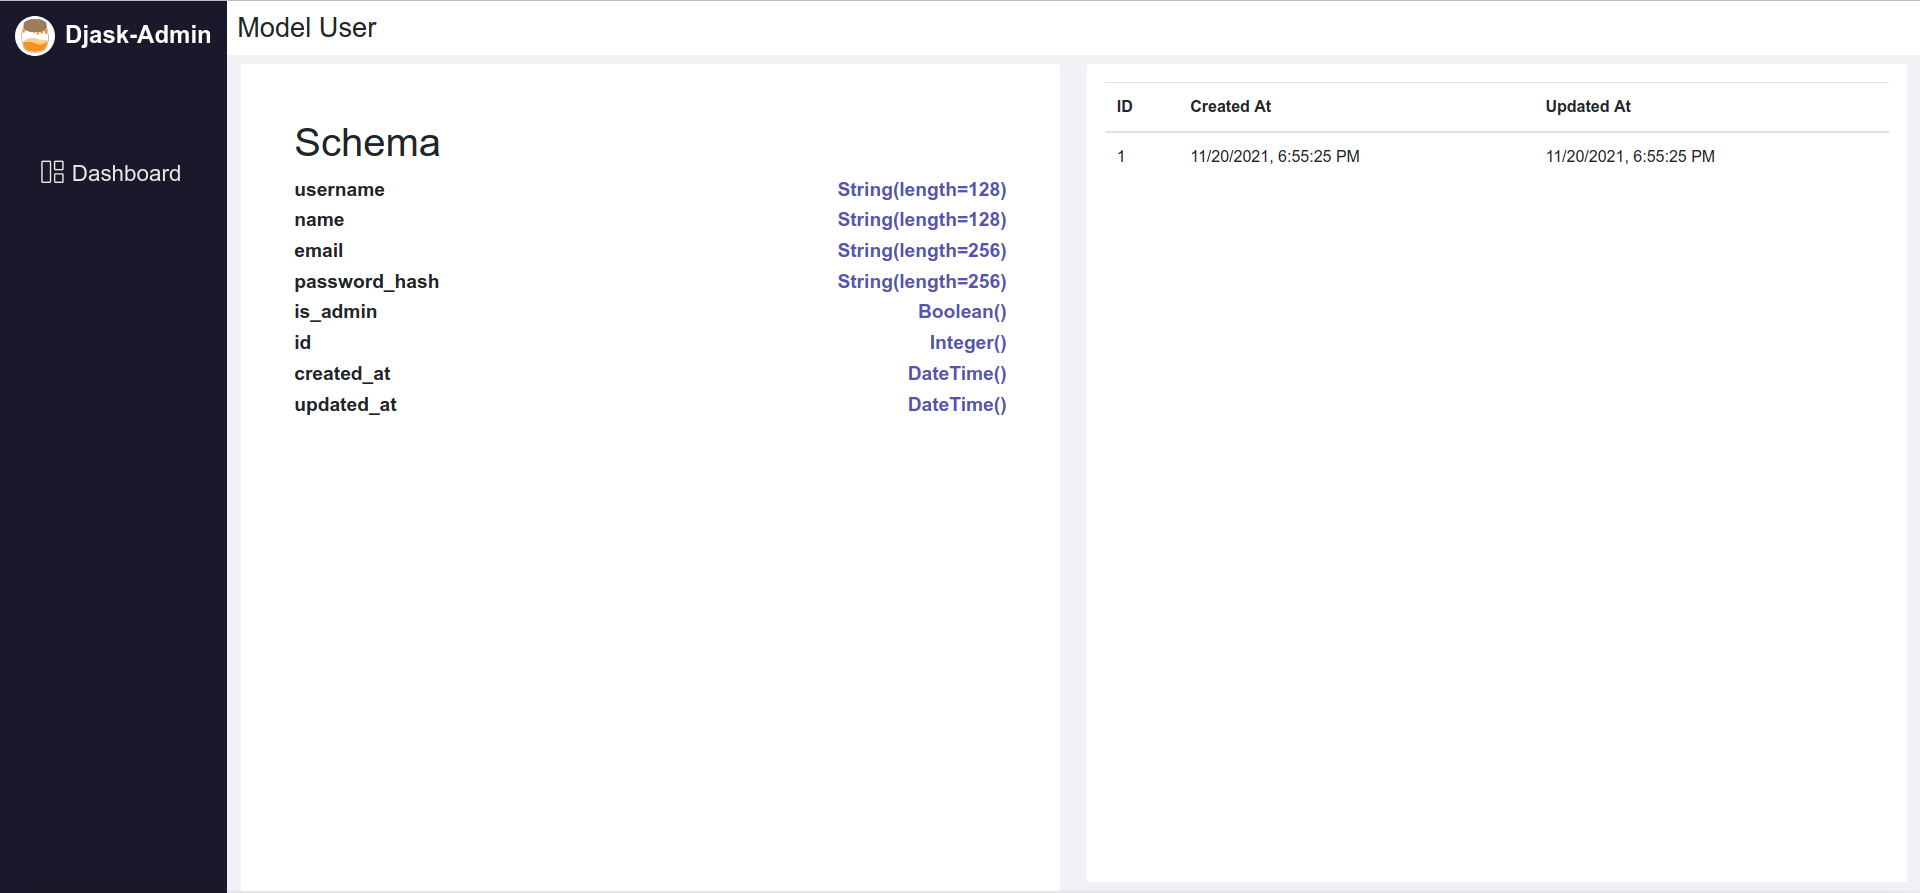
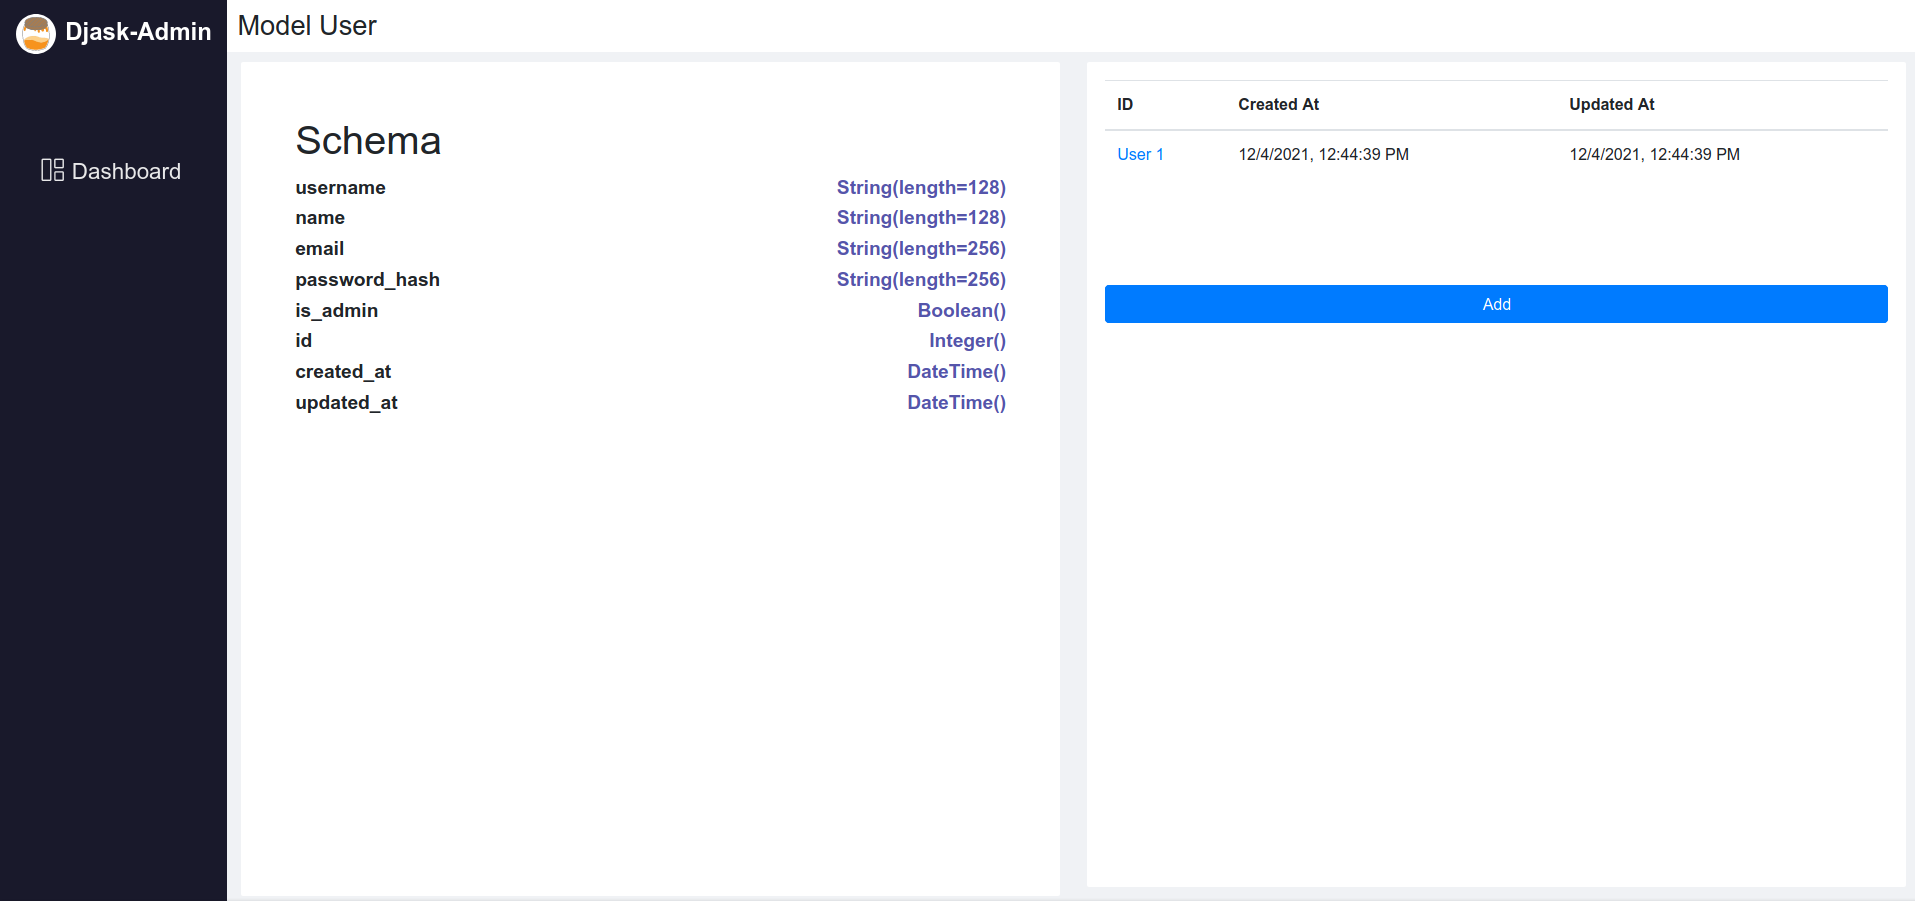
docs: Update docs/ and CHANGES.md

diff --git a/docs/source/quickstart.rst b/docs/source/quickstart.rst
@@ -97,28 +97,44 @@ Head over to `localhost:5000/admin/login <localhost:5000/admin/login>`_.
 Log in the admin interface with ``test`` as username and ``password`` as password:
 
 .. image:: _static/admin_login.png
-   :alt: Admin Login
-   :align: center
-   :width: 500px
+   :alt: The admin login page
 
 Then the dashboard is here for you:
 
 .. image:: _static/admin_dashboard.png
-   :alt: Admin Dashboard
-   :align: center
-   :width: 500px
+   :alt: The admin dashboard page
 
 
 Viewing a model
 ===============
 
-The admin interface of Djask enables you to view a model schema. To check out this functionality, just click on the model, or get to ``/admin/<your-model-name>``.
+The admin interface of Djask enables you to view a model schema. To check out this functionality, just click on
+the model, or get to ``/admin/<your-model-name>``.
 For example:
 
 .. image:: _static/user_model_schema.png
    :alt: The user model
-   :align: center
-
-Note that the instances of the model are also shown on the page.
 
 
+Editing a model
+===============
+
+With just a simple click on the ``<model-name> <model-id>`` button (as shown below), you can edit the model in the UI.
+
+.. image:: _static/user_model_schema_with_circle.png
+   :alt: The user model with a circle on ``User 1``
+
+.. image:: _static/editing_user_model.png
+   :alt: Editing the user model
+
+
+Adding a model
+==============
+
+To add an instance of a model, click on either the ``+`` button on the dashboard page or the ``Add`` button on the model page (``/admin/<your-model-name>``).
+
+.. image:: _static/admin_dashboard.png
+   :alt: The admin dashboard
+
+.. image:: _static/user_model_schema.png
+   :alt: The user model

diff --git a/CHANGES.md b/CHANGES.md
@@ -1,8 +1,15 @@
+# Version 0.2.0
+
+Changes:
+
+- Support adding and editing models in the admin interface.
+
 # Version 0.1.0
 
 Changes:
+
 - Add admin extension
 - Add admin frontend
   - Add dashboard page
 - Support defining models in multiple blueprints natively
-- Write the API reference part 
+- Write the API reference part
